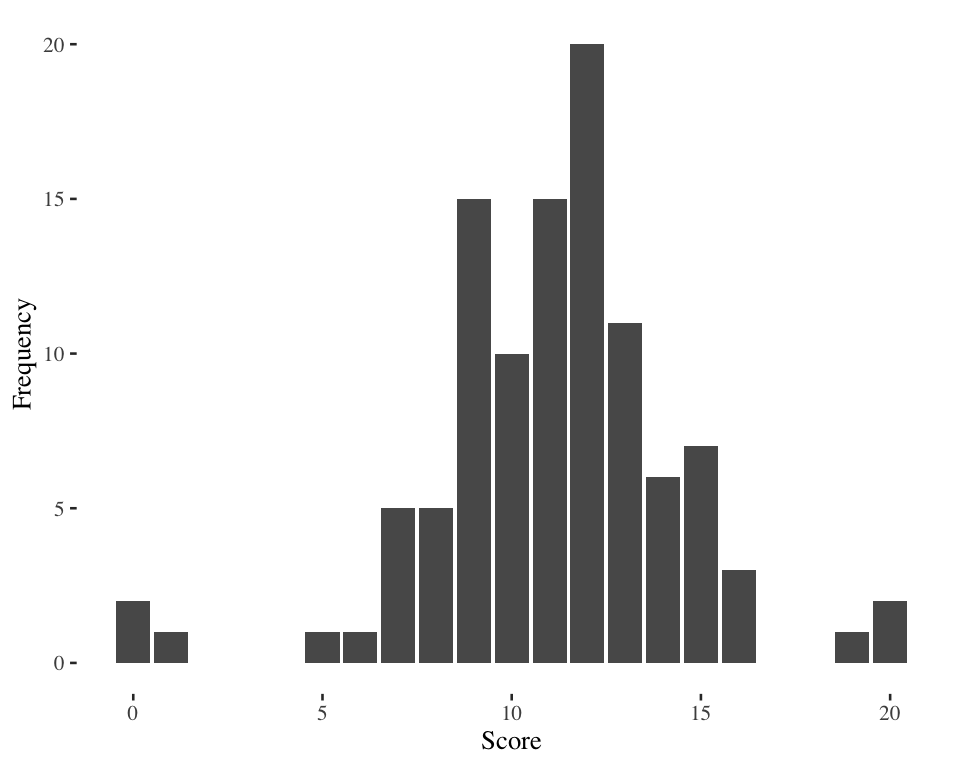
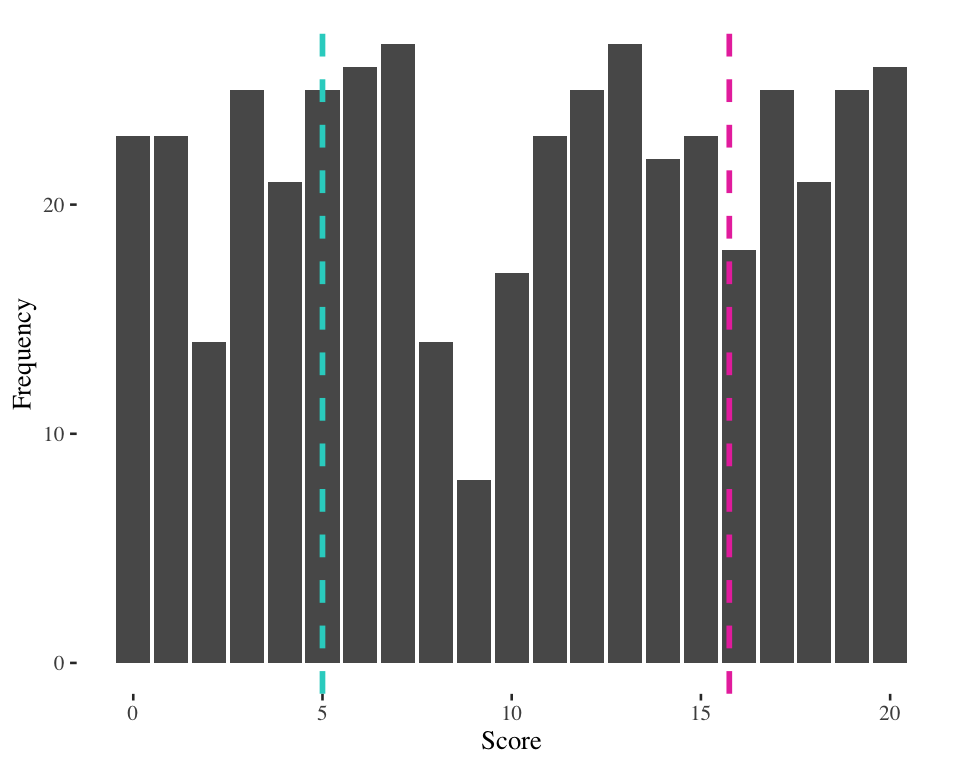
Fixing lecture 3 typos

diff --git a/docs/lectures/lecture3.html b/docs/lectures/lecture3.html
@@ -1812,17 +1812,27 @@ IQR = X_{75th} - X_{25th}
 <h2>IQR example 1</h2>
 
 <img data-src="lecture3_files/figure-revealjs/unnamed-chunk-12-1.png" class="quarto-figure quarto-figure-center r-stretch" width="480"></section>
-<section id="iqr-example-1-15.75---5-10" class="slide level2">
-<h2>IQR example 1 (<span style="color:#e93cac">15.75</span> - <span style="color:#2ad2c9">5</span> = 10)</h2>
+<section id="iqr-example-1-1" class="slide level2">
+<h2>IQR example 1</h2>
 
 <img data-src="lecture3_files/figure-revealjs/unnamed-chunk-13-1.png" class="quarto-figure quarto-figure-center r-stretch" width="480"><div data-id="box2" style="background: #2ad2c9; border: 4px solid #1b8883; border-radius: 15px; width: 340px; height: 35px; padding: 0px 0px 20px 20px; position: absolute; bottom: -25px; left: 75px">
 <p>Score at 25th percentile = 5</p>
 </div>
 </section>
-<section id="iqr-example-1-15.75---5-10-1" class="slide level2">
-<h2>IQR example 1 (<span style="color:#e93cac">15.75</span> - <span style="color:#2ad2c9">5</span> = 10)</h2>
+<section id="iqr-example-1-2" class="slide level2">
+<h2>IQR example 1</h2>
 
 <img data-src="lecture3_files/figure-revealjs/unnamed-chunk-14-1.png" class="quarto-figure quarto-figure-center r-stretch" width="480"><div data-id="box2" style="background: #2ad2c9; border: 4px solid #1b8883; border-radius: 15px; width: 340px; height: 35px; padding: 0px 0px 20px 20px; position: absolute; bottom: -25px; left: 75px">
+<p>Score at 25th percentile = 5</p>
+</div>
+<div data-id="box2" style="background: #e93cac; border: 4px solid #690c48; border-radius: 15px; width: 360px; height: 35px; padding: 0px 0px 20px 20px; position: absolute; bottom: -25px; right: 75px">
+<p>Score at 75th percentile = 15.75</p>
+</div>
+</section>
+<section id="iqr-example-1-15.75---5-10" class="slide level2">
+<h2>IQR example 1 (<span style="color:#e93cac">15.75</span> - <span style="color:#2ad2c9">5</span> = 10)</h2>
+
+<img data-src="lecture3_files/figure-revealjs/unnamed-chunk-15-1.png" class="quarto-figure quarto-figure-center r-stretch" width="480"><div data-id="box2" style="background: #2ad2c9; border: 4px solid #1b8883; border-radius: 15px; width: 340px; height: 35px; padding: 0px 0px 20px 20px; position: absolute; bottom: -25px; left: 75px">
 <p>Score at 25th percentile = 5</p>
 </div>
 <div data-id="box2" style="background: #e93cac; border: 4px solid #690c48; border-radius: 15px; width: 360px; height: 35px; padding: 0px 0px 20px 20px; position: absolute; bottom: -25px; right: 75px">
@@ -1832,18 +1842,28 @@ IQR = X_{75th} - X_{25th}
 <section id="iqr-example-2" class="slide level2">
 <h2>IQR example 2</h2>
 
-<img data-src="lecture3_files/figure-revealjs/unnamed-chunk-15-1.png" class="quarto-figure quarto-figure-center r-stretch" width="480"></section>
-<section id="iqr-example-2-13---9-4" class="slide level2">
-<h2>IQR example 2 (<span style="color:#2ad2c9">13</span> - <span style="color:#e93cac">9</span> = 4)</h2>
-
-<img data-src="lecture3_files/figure-revealjs/unnamed-chunk-16-1.png" class="quarto-figure quarto-figure-center r-stretch" width="480"><div data-id="box2" style="background: #2ad2c9; border: 4px solid #1b8883; border-radius: 15px; width: 340px; height: 35px; padding: 0px 0px 20px 20px; position: absolute; bottom: -25px; left: 75px">
-<p>Score at 25th percentile = 5</p>
-</div>
-</section>
-<section id="iqr-example-2-13---9-4-1" class="slide level2">
-<h2>IQR example 2 (<span style="color:#2ad2c9">13</span> - <span style="color:#e93cac">9</span> = 4)</h2>
+<img data-src="lecture3_files/figure-revealjs/unnamed-chunk-16-1.png" class="quarto-figure quarto-figure-center r-stretch" width="480"></section>
+<section id="iqr-example-2-1" class="slide level2">
+<h2>IQR example 2</h2>
 
 <img data-src="lecture3_files/figure-revealjs/unnamed-chunk-17-1.png" class="quarto-figure quarto-figure-center r-stretch" width="480"><div data-id="box2" style="background: #2ad2c9; border: 4px solid #1b8883; border-radius: 15px; width: 340px; height: 35px; padding: 0px 0px 20px 20px; position: absolute; bottom: -25px; left: 75px">
+<p>Score at 25th percentile = 9</p>
+</div>
+</section>
+<section id="iqr-example-2-2" class="slide level2">
+<h2>IQR example 2</h2>
+
+<img data-src="lecture3_files/figure-revealjs/unnamed-chunk-18-1.png" class="quarto-figure quarto-figure-center r-stretch" width="480"><div data-id="box2" style="background: #2ad2c9; border: 4px solid #1b8883; border-radius: 15px; width: 340px; height: 35px; padding: 0px 0px 20px 20px; position: absolute; bottom: -25px; left: 75px">
+<p>Score at 25th percentile = 9</p>
+</div>
+<div data-id="box2" style="background: #e93cac; border: 4px solid #690c48; border-radius: 15px; width: 340px; height: 35px; padding: 0px 0px 20px 20px; position: absolute; bottom: -25px; right: 75px">
+<p>Score at 75th percentile = 13</p>
+</div>
+</section>
+<section id="iqr-example-2-13---9-4" class="slide level2">
+<h2>IQR example 2 (<span style="color:#e93cac">13</span> - <span style="color:#2ad2c9">9</span> = 4)</h2>
+
+<img data-src="lecture3_files/figure-revealjs/unnamed-chunk-19-1.png" class="quarto-figure quarto-figure-center r-stretch" width="480"><div data-id="box2" style="background: #2ad2c9; border: 4px solid #1b8883; border-radius: 15px; width: 340px; height: 35px; padding: 0px 0px 20px 20px; position: absolute; bottom: -25px; left: 75px">
 <p>Score at 25th percentile = 9</p>
 </div>
 <div data-id="box2" style="background: #e93cac; border: 4px solid #690c48; border-radius: 15px; width: 340px; height: 35px; padding: 0px 0px 20px 20px; position: absolute; bottom: -25px; right: 75px">
@@ -1924,7 +1944,7 @@ IQR = X_{75th} - X_{25th}
 </div><div class="column" style="width:60%;">
 <div style="font-size:1.25em; text-align: center;">
 <p><u>Start by finding the median:</u><br> <br> <span style="color:#e93cac"><strong>Median case</strong></span> = <span class="math display">\[
-\frac{N + 1}{2} = \frac{10 + 1}{5} = 5.5
+\frac{N + 1}{2} = \frac{10 + 1}{2} = 5.5
 \]</span> <br> Median = value halfway between<br>values for the 5th and 6th cases</p>
 </div>
 </div></div>
@@ -3996,16 +4016,7 @@ s_x = \sqrt{\frac{\Sigma f (X_i - \bar{X})^2}{n - 1}}
 <p><u><strong>Interpretation</strong></u>: On average, the number of cups used by the students in the sample differed from the average (mean) by almost 2.6 cups.</p>
 </div>
 </section>
-<section id="practice-visibility-hidden" class="slide level2">
-<h2>Practice {visibility = “hidden”}</h2>
-<p>The following data are the distances between 20 retail stores and a large distribution center. The distances are in miles. 29; 37; 38; 40; 58; 67; 68; 69; 76; 86; 87; 95; 96; 96; 99; 106; 112; 127; 145; 150. Create a frequency table and do the following:</p>
-<div>
-<ul>
-<li class="fragment">Calculate the standard deviation and round to the nearest tenth</li>
-<li class="fragment">Find the value that is one standard deviation below the mean</li>
-</ul>
-</div>
-</section></section>
+</section>
 <section>
 <section id="homework" class="title-slide slide level1 section-title center" data-background-color="#e8e3d3">
 <h1>Homework</h1>
